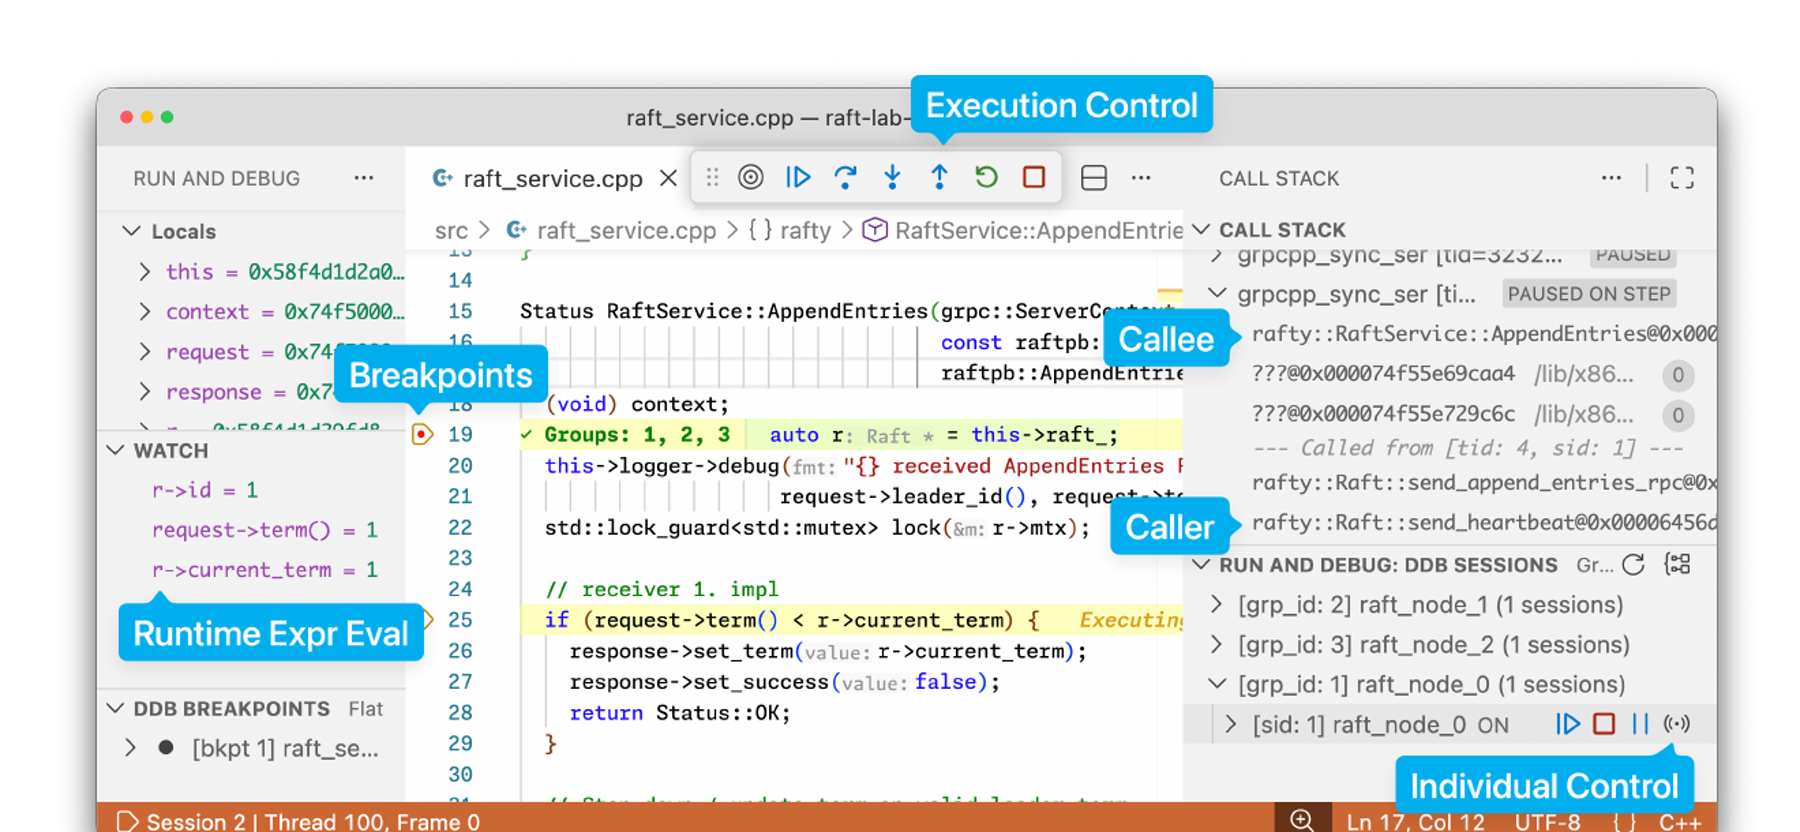
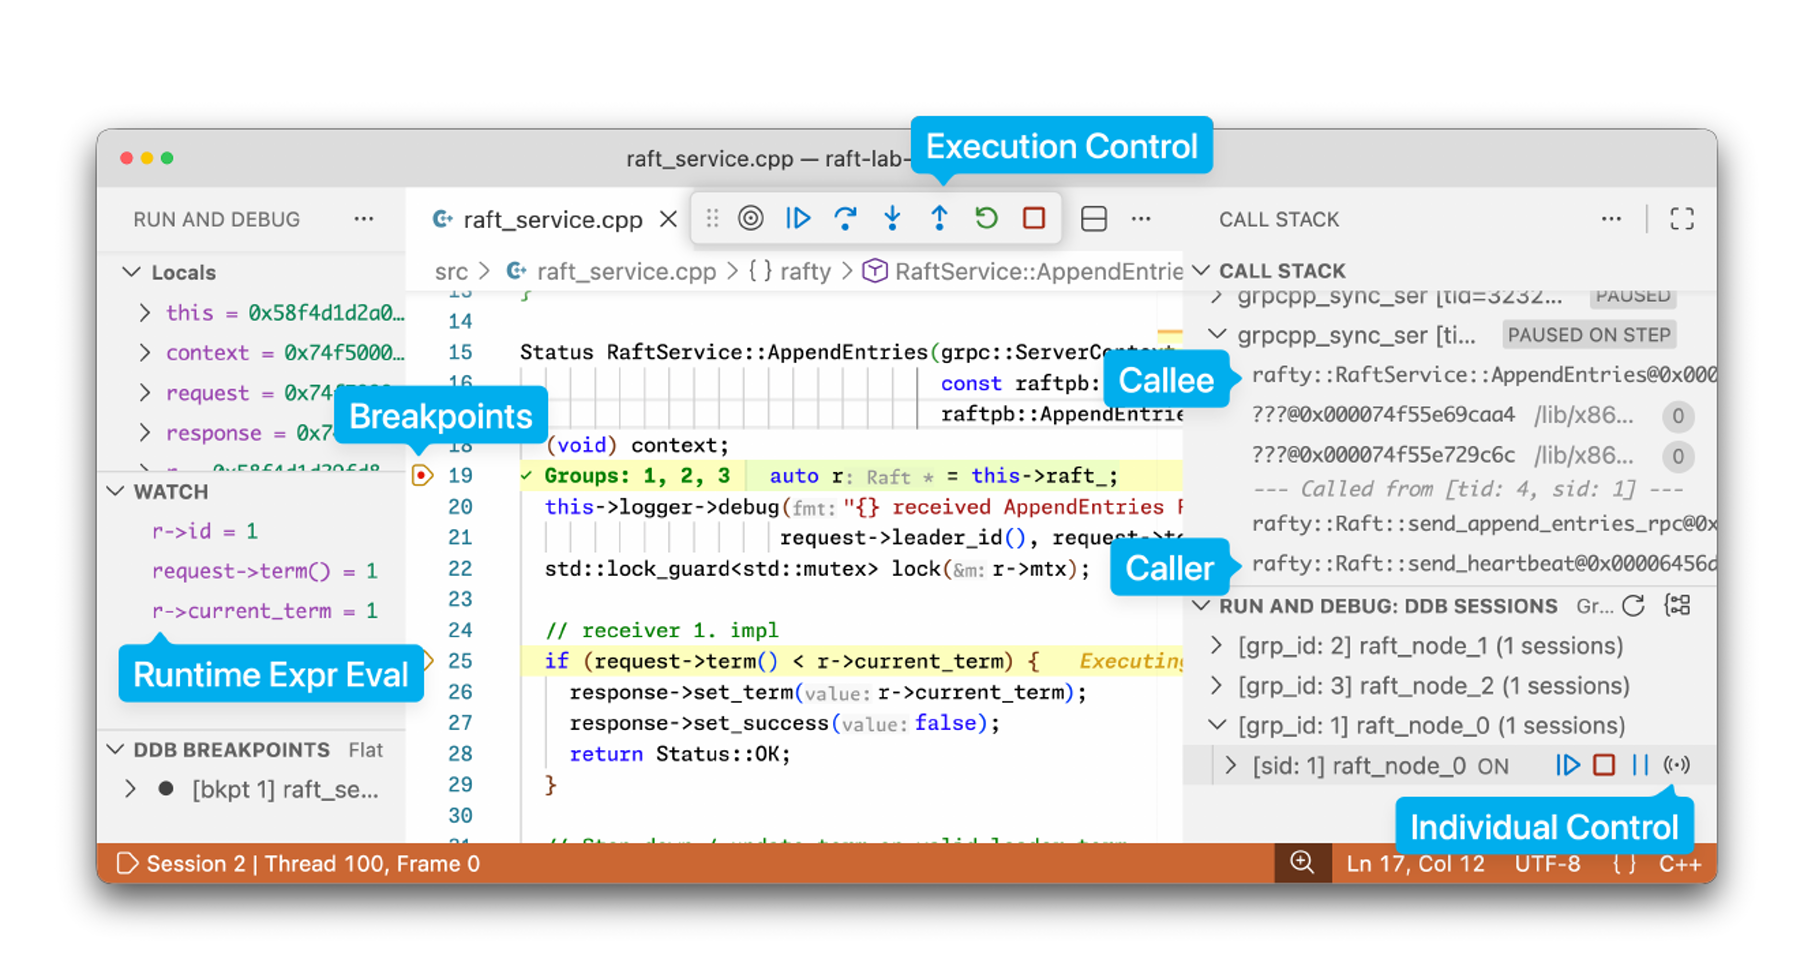
fix: refine hero and product screenshot layout

diff --git a/app/globals.css b/app/globals.css
@@ -58,8 +58,7 @@ nav a:hover, .github-link:hover { color: var(--ink); }
 [data-theme="dark"] .theme-icon-moon { opacity: 1; transform: none; }
 
 .hero { min-height: 720px; padding-block: 96px 88px; display: grid; grid-template-columns: .92fr 1.18fr; align-items: center; gap: 68px; }
-.eyebrow { width: fit-content; display: inline-flex; align-items: center; gap: 9px; padding: 8px 10px; border: 1px solid var(--line); border-radius: 999px; color: var(--muted); font: 11px/1 var(--font-geist-mono), monospace; letter-spacing: .06em; text-transform: uppercase; background: color-mix(in srgb, var(--surface), transparent 20%); }
-.eyebrow i { width: 3px; height: 3px; background: var(--line-strong); border-radius: 50%; }
+.eyebrow { width: fit-content; display: inline-flex; align-items: center; gap: 12px; padding: 9px 13px; border: 1px solid var(--line); border-radius: 999px; color: var(--muted); font: 11px/1 var(--font-geist-mono), monospace; letter-spacing: .06em; text-transform: uppercase; white-space: nowrap; background: color-mix(in srgb, var(--surface), transparent 20%); }
 h1 { margin: 28px 0 24px; max-width: 600px; font-size: clamp(52px, 6vw, 82px); line-height: .98; letter-spacing: -.065em; font-weight: 650; }
 h1 span { color: var(--blue); }
 .hero-lede { max-width: 560px; margin: 0; color: var(--muted); font-size: 18px; line-height: 1.65; letter-spacing: -.01em; }
@@ -142,9 +141,8 @@ h1 span { color: var(--blue); }
 .product-copy h2 { margin: 0 0 25px; font-size: 46px; line-height: 1.08; letter-spacing: -.05em; font-weight: 600; }.product-copy > p { color: var(--muted); font-size: 15px; line-height: 1.7; }
 .feature-list { margin: 28px 0; padding: 0; list-style: none; }.feature-list li { padding-block: 11px; display: flex; gap: 10px; align-items: center; border-top: 1px solid var(--line); color: var(--muted); font-size: 12px; }.feature-list li:last-child { border-bottom: 1px solid var(--line); }.feature-list i { width: 6px; height: 6px; border: 1px solid var(--blue); border-radius: 50%; }
 .text-link { display: inline-flex; align-items: center; gap: 10px; color: var(--blue); font-size: 13px; font-weight: 650; }
-.product-figure { margin: 0; overflow: hidden; border: 1px solid var(--line-strong); border-radius: 14px; background: var(--surface); box-shadow: var(--shadow); transform: rotate(1deg); }
-.figure-chrome { height: 42px; padding: 0 13px; display: grid; grid-template-columns: 1fr auto 1fr; align-items: center; border-bottom: 1px solid var(--line); color: var(--muted); font: 9px var(--font-geist-mono), monospace; }.figure-chrome > span { display:flex;gap:5px}.figure-chrome i{width:6px;height:6px;border-radius:50%;background:#ff666b}.figure-chrome i:nth-child(2){background:#ffbd43}.figure-chrome i:nth-child(3){background:#33ca6f}.figure-chrome em{font-style:normal}.figure-chrome b{justify-self:end;font-weight:400}
-.product-figure img { display: block; width: 100%; height: auto; }.product-figure figcaption { padding: 12px 15px; color: var(--muted); font-size: 10px; line-height: 1.5; }.product-figure code { font-family: var(--font-geist-mono), monospace; color: var(--ink); }
+.product-figure { margin: 0; padding: 14px; border: 1px solid var(--line-strong); border-radius: 16px; background: var(--surface); box-shadow: var(--shadow); }
+.product-figure img { display: block; width: 100%; height: auto; border: 1px solid #d6dae2; border-radius: 11px; background: #fff; }
 
 .frameworks { padding-block: 126px; }
 .centered-heading { max-width: 750px; margin-inline: auto; text-align: center; }.centered-heading .kicker { text-align:center }.centered-heading > p { max-width: 630px; margin: 22px auto 0; }
@@ -170,7 +168,7 @@ footer { padding-block: 68px; border-top: 1px solid var(--line); }
 }
 
 @media (max-width: 620px) {
-  .section-shell,.nav-wrap{width:min(100% - 28px,1180px)}.site-header{height:64px}.github-link{display:none}.hero{padding-block:56px 64px}h1{font-size:49px}.hero-lede{font-size:16px}.eyebrow span:nth-of-type(1),.eyebrow i{display:none}.demo-grid{grid-template-columns:1fr}.cluster-panel{border-right:0;border-bottom:1px solid #1e2a40}.service-map{height:260px}.stack-panel{display:none}.demo-status{gap:10px}.proof-strip{padding-block:60px}.metrics{grid-template-columns:1fr 1fr;gap:28px 12px}.metrics strong{font-size:34px}.approach,.product-showcase,.frameworks{padding-block:90px}.section-heading h2{font-size:40px}.pillars{margin-top:40px}.product-grid{gap:46px}.product-copy h2{font-size:39px}.product-figure{transform:none}.framework-list{grid-template-columns:1fr}.framework-list>div{min-height:155px!important;border-right:0!important;border-bottom:1px solid var(--line)!important}.framework-list>div:last-child{border-bottom:0!important}.scope-section{padding-bottom:90px}.scope-card{padding:30px}.scope-card h2{font-size:32px}.cta-section{width:100%;padding-bottom:0}.cta-card{min-height:480px;padding:52px 22px;border-radius:0}.cta-card h2{font-size:45px}.cta-actions{flex-direction:column;width:100%;max-width:300px}.cta-actions .button{width:100%}.footer-grid{grid-template-columns:1fr 1fr}.footer-grid>div:first-child,.footer-note{grid-column:1/-1}.hero-note{line-height:1.5}
+  .section-shell,.nav-wrap{width:min(100% - 28px,1180px)}.site-header{height:64px}.github-link{display:none}.hero{padding-block:56px 64px}h1{font-size:49px}.hero-lede{font-size:16px}.demo-grid{grid-template-columns:1fr}.cluster-panel{border-right:0;border-bottom:1px solid #1e2a40}.service-map{height:260px}.stack-panel{display:none}.demo-status{gap:10px}.proof-strip{padding-block:60px}.metrics{grid-template-columns:1fr 1fr;gap:28px 12px}.metrics strong{font-size:34px}.approach,.product-showcase,.frameworks{padding-block:90px}.section-heading h2{font-size:40px}.pillars{margin-top:40px}.product-grid{gap:46px}.product-copy h2{font-size:39px}.product-figure{padding:8px}.framework-list{grid-template-columns:1fr}.framework-list>div{min-height:155px!important;border-right:0!important;border-bottom:1px solid var(--line)!important}.framework-list>div:last-child{border-bottom:0!important}.scope-section{padding-bottom:90px}.scope-card{padding:30px}.scope-card h2{font-size:32px}.cta-section{width:100%;padding-bottom:0}.cta-card{min-height:480px;padding:52px 22px;border-radius:0}.cta-card h2{font-size:45px}.cta-actions{flex-direction:column;width:100%;max-width:300px}.cta-actions .button{width:100%}.footer-grid{grid-template-columns:1fr 1fr}.footer-grid>div:first-child,.footer-note{grid-column:1/-1}.hero-note{line-height:1.5}
 }
 
 @media (prefers-reduced-motion: reduce) { html { scroll-behavior: auto; } *, *::before, *::after { transition-duration: .01ms !important; animation-duration: .01ms !important; animation-iteration-count: 1 !important; } }

diff --git a/app/page.tsx b/app/page.tsx
@@ -106,8 +106,6 @@ export default function Home() {
       <section className="hero section-shell">
         <div className="hero-copy">
           <a className="eyebrow" href={links.source}>
-            <span>Distributed debugger</span>
-            <i />
             <span>Source available on GitHub</span>
             <Arrow />
           </a>
@@ -119,7 +117,7 @@ export default function Home() {
             <a className="button button-primary" href={links.quickstart}>Get started <span>→</span></a>
             <a className="button button-secondary" href={links.source}>View on GitHub <Arrow /></a>
           </div>
-          <p className="hero-note">Built at USC by Yibo Yan, Junzhou He, and Seo Jin Park · <a href={links.paper}>Read the research paper <Arrow /></a></p>
+          <p className="hero-note">USC Networked Systems Lab · <a href={links.paper}>Read the paper <Arrow /></a></p>
         </div>
         <div className="hero-demo-wrap">
           <div className="demo-tag"><i /> Live cross-RPC debugging workflow</div>
@@ -188,9 +186,7 @@ export default function Home() {
             <a className="text-link" href={links.quickstart}>Walk through the gRPC example <span>→</span></a>
           </div>
           <figure className="product-figure">
-            <div className="figure-chrome"><span><i /><i /><i /></span><em>DDB in VS Code</em><b>Raft cluster</b></div>
-            <Image unoptimized width={1800} height={832} src="/ddb-vscode-raft.png" alt="DDB VS Code frontend debugging a three-node Raft cluster, annotated with breakpoints, runtime expression evaluation, execution control, callee and caller frames, and individual process control." />
-            <figcaption>A three-node Raft cluster paused at <code>AppendEntries</code>, with caller and callee frames in one distributed call stack.</figcaption>
+            <Image unoptimized width={1800} height={955} src="/ddb-vscode-raft.png" alt="DDB in VS Code, showing breakpoints, runtime expression evaluation, execution controls, and caller and callee frames across a Raft cluster." />
           </figure>
         </div>
       </section>
